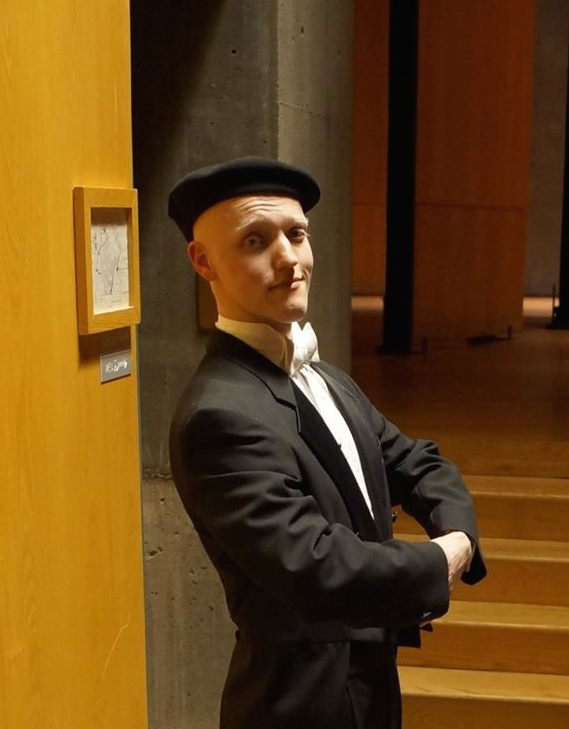
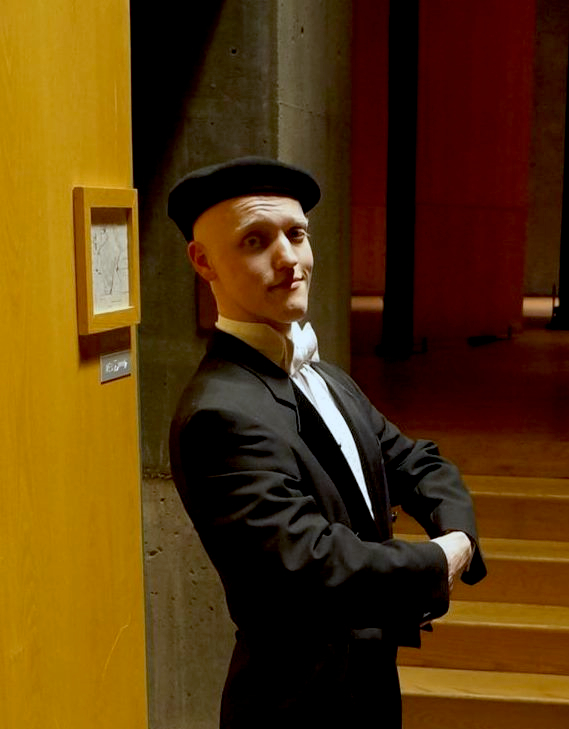
Coming along...

diff --git a/js/init.js b/js/init.js
@@ -13,26 +13,26 @@
 		var settings = {
 
 			// Speed to resize panel.
-				resizeSpeed: 600,
-			
+				resizeSpeed: 400,
+
 			// Speed to fade in/out.
-				fadeSpeed: 300,
-			
+				fadeSpeed: 250,
+
 			// Size factor.
-				sizeFactor: 11.5,		
-			
+				sizeFactor: 11.5,
+
 			// Minimum point size.
-				sizeMin: 15,			
-			
+				sizeMin: 15,
+
 			// Maximum point size.
-				sizeMax: 20			
+				sizeMax: 20
 
 		};
 
 	/*********************************************************************************/
 	/* skel                                                                          */
 	/*********************************************************************************/
-		
+
 		skel.init({
 			reset: 'full',
 			pollOnce: true,
@@ -48,7 +48,7 @@
 	/*********************************************************************************/
 
 		var	$window = $(window);
-		
+
 		$window.on('load', function() {
 
 			var	$body = $('body'),
@@ -65,17 +65,17 @@
 				firstPanelId = null,
 				isLocked = false,
 				hash = window.location.hash.substring(1);
-		
+
 			if (skel.vars.isTouch) {
-				
+
 				settings.fadeSpeed = 0;
 				settings.resizeSpeed = 0;
 				$nav_links.find('span').remove();
-			
+
 			}
 
 			if (skel.isActive('desktop')) {
-				
+
 				// Body.
 					$body._resize = function() {
 						var factor = ($window.width() * $window.height()) / (1440 * 900);
@@ -90,24 +90,24 @@
 						else
 							$wrapper.css('padding-top', ((($window.height() - panels[firstPanelId].height()) / 2) - $nav.height()) + 'px');
 					};
-					
+
 				// Panels.
 					$panels.each(function(i) {
 						var t = $(this), id = t.attr('id');
-						
+
 						panels[id] = t;
-					
+
 						if (i == 0) {
-							
+
 							firstPanelId = id;
 							activePanelId = id;
-						
+
 						}
 						else
 							t.hide();
-							
+
 						t._activate = function(instant) {
-						
+
 							// Check lock state and determine whether we're already at the target.
 								if (isLocked
 								||	activePanelId == id)
@@ -115,11 +115,11 @@
 
 							// Lock.
 								isLocked = true;
-								
+
 							// Change nav link (if it exists).
 								$nav_links.removeClass('active');
 								$nav_links.filter('[href="#' + id + '"]').addClass('active');
-								
+
 							// Change hash.
 								if (i == 0)
 									window.location.hash = '#';
@@ -131,16 +131,16 @@
 										panels[id].outerHeight() +
 										$nav.outerHeight() +
 										$footer.outerHeight();
-							
+
 								if (x > $window.height())
 									$wrapper.addClass('tall');
 								else
 									$wrapper.removeClass('tall');
-										
+
 							// Fade out active panel.
 								$footer.fadeTo(settings.fadeSpeed, 0.0001);
 								panels[activePanelId].fadeOut(instant ? 0 : settings.fadeSpeed, function() {
-				
+
 									// Set new active.
 										activePanelId = id;
 
@@ -151,55 +151,55 @@
 
 										// Reposition.
 											$body._reposition();
-											
+
 										// Resize main to height of new panel.
 											$main.animate({
 												height: panels[activePanelId].outerHeight()
 											}, instant ? 0 : settings.resizeSpeed, 'swing', function() {
-											
+
 												// Fade in new active panel.
 													$footer.fadeTo(instant ? 0 : settings.fadeSpeed, 1.0);
 													panels[activePanelId].fadeIn(instant ? 0 : settings.fadeSpeed, function() {
-														
+
 														// Unlock.
 															isLocked = false;
 
 													});
 											});
-										
+
 								});
-						
+
 						};
-						
+
 					});
 
 				// Nav + Jumplinks.
 					$nav_links.add($jumplinks).click(function(e) {
 						var t = $(this), href = t.attr('href'), id;
-					
+
 						if (href.substring(0,1) == '#') {
-							
+
 							e.preventDefault();
 							e.stopPropagation();
 
 							id = href.substring(1);
-							
+
 							if (id in panels)
 								panels[id]._activate();
-						
+
 						}
-					
+
 					});
-				
+
 				// Window.
 					$window
 						.resize(function() {
-						
+
 							if (!isLocked)
 								$body._resize();
-						
+
 						});
-						
+
 					if (skel.vars.IEVersion < 9)
 						$window
 							.on('resize', function() {
@@ -208,7 +208,7 @@
 
 				// Forms (IE<10).
 					if ($form.length > 0) {
-						
+
 						if (skel.vars.IEVersion < 10) {
 							$.fn.n33_formerize=function(){var _fakes=new Array(),_form = $(this);_form.find('input[type=text],textarea').each(function() { var e = $(this); if (e.val() == '' || e.val() == e.attr('placeholder')) { e.addClass('formerize-placeholder'); e.val(e.attr('placeholder')); } }).blur(function() { var e = $(this); if (e.attr('name').match(/_fakeformerizefield$/)) return; if (e.val() == '') { e.addClass('formerize-placeholder'); e.val(e.attr('placeholder')); } }).focus(function() { var e = $(this); if (e.attr('name').match(/_fakeformerizefield$/)) return; if (e.val() == e.attr('placeholder')) { e.removeClass('formerize-placeholder'); e.val(''); } }); _form.find('input[type=password]').each(function() { var e = $(this); var x = $($('<div>').append(e.clone()).remove().html().replace(/type="password"/i, 'type="text"').replace(/type=password/i, 'type=text')); if (e.attr('id') != '') x.attr('id', e.attr('id') + '_fakeformerizefield'); if (e.attr('name') != '') x.attr('name', e.attr('name') + '_fakeformerizefield'); x.addClass('formerize-placeholder').val(x.attr('placeholder')).insertAfter(e); if (e.val() == '') e.hide(); else x.hide(); e.blur(function(event) { event.preventDefault(); var e = $(this); var x = e.parent().find('input[name=' + e.attr('name') + '_fakeformerizefield]'); if (e.val() == '') { e.hide(); x.show(); } }); x.focus(function(event) { event.preventDefault(); var x = $(this); var e = x.parent().find('input[name=' + x.attr('name').replace('_fakeformerizefield', '') + ']'); x.hide(); e.show().focus(); }); x.keypress(function(event) { event.preventDefault(); x.val(''); }); });  _form.submit(function() { $(this).find('input[type=text],input[type=password],textarea').each(function(event) { var e = $(this); if (e.attr('name').match(/_fakeformerizefield$/)) e.attr('name', ''); if (e.val() == e.attr('placeholder')) { e.removeClass('formerize-placeholder'); e.val(''); } }); }).bind("reset", function(event) { event.preventDefault(); $(this).find('select').val($('option:first').val()); $(this).find('input,textarea').each(function() { var e = $(this); var x; e.removeClass('formerize-placeholder'); switch (this.type) { case 'submit': case 'reset': break; case 'password': e.val(e.attr('defaultValue')); x = e.parent().find('input[name=' + e.attr('name') + '_fakeformerizefield]'); if (e.val() == '') { e.hide(); x.show(); } else { e.show(); x.hide(); } break; case 'checkbox': case 'radio': e.attr('checked', e.attr('defaultValue')); break; case 'text': case 'textarea': e.val(e.attr('defaultValue')); if (e.val() == '') { e.addClass('formerize-placeholder'); e.val(e.attr('placeholder')); } break; default: e.val(e.attr('defaultValue')); break; } }); window.setTimeout(function() { for (x in _fakes) _fakes[x].trigger('formerize_sync'); }, 10); }); return _form; };
 							$form.n33_formerize();
@@ -228,9 +228,9 @@
 						panels[hash]._activate(true);
 
 					$wrapper.fadeTo(400, 1.0);
-				
+
 			}
-					
+
 		});
 
 })(jQuery);

diff --git a/index.html b/index.html
@@ -31,7 +31,8 @@
 					<nav id="nav">
 						<a href="#me" class="icon fa-home active"><span>Home</span></a>
 						<a href="#work" class="icon fa-folder"><span>Work</span></a>
-						<a href="#contact" class="icon fa-envelope"><span>Contact</span></a>
+						<a href="#about" class="icon fa-user"><span>About</span></a>
+						<a href="#contact" class="icon fa-send-o"><span>Contact</span></a>
 					</nav>
 
 				<!-- Main -->
@@ -41,11 +42,12 @@
 							<article id="me" class="panel">
 								<header>
 									<h1>Nicholas Oliver Brewer</h1>
-									<p>Musician and Visual Artist</p>
+									<h4>Musician and Visual Artist</h4>
+									<p>Peracta cerealium in medendo quoque natura est omniumque, quae ciborum aut florum odorumve gratia proveniunt supina tellure. non cessit iis Pomona partesque medicas et pendentibus dedit, non contenta protegere arborumque umbra alere quae diximus, immo velut indignata plus auxili inesse his, quae longius a caelo abessent quaeque postea coepissent; primum enim...</p>
 								</header>
 								<a href="#work" class="jumplink pic">
 									<span class="arrow icon fa-chevron-right"><span>See my work</span></span>
-									<img src="images/me cropped.jpg" alt="" />
+									<img src="images/profile bw.jpg" alt="" />
 								</a>
 							</article>
 
@@ -107,13 +109,23 @@
 							-->
 							</article>
 
+						<!-- About -->
+							<article id="about" class="panel">
+								<header>
+									<h2>About Me</h2>
+								</header>
+								<p>
+									Coming Soon...
+								</p>
+							</article>
+
 						<!-- Contact -->
 							<article id="contact" class="panel">
 								<header>
 									<h2>Contact Me</h2>
 								</header>
 								<body>
-									<p>If you'd like to contact me, please feel free to send an email to:</p>
+									<p>If you would like to contact me, please feel free to send an email to:</p>
 									<h4>bricknewer@gmail.com</h4>
 								</body>
 							</article>

diff --git a/css/style-desktop.css b/css/style-desktop.css
@@ -31,7 +31,7 @@
 
 	h1
 	{
-		font-size: 2.4em;
+		font-size: 2em;
 		letter-spacing: -0.015em;
 	}
 
@@ -222,7 +222,7 @@
 	{
 		width: 45em;
 		background: #ffffff;
-		box-shadow: 0px 1px 0px 0px rgba(0,0,0,0.25);
+		box-shadow: 0px 1px 0px 0px rgba(0,0,0,0.15);
 	}
 
 	.panel
@@ -315,16 +315,28 @@
 				{
 					position: absolute;
 					left: 0;
-					bottom: 52.5%;
+					top: 10%;
 					margin: 0;
+				}
+
+				#me header > h4
+				{
+					position: absolute;
+					left: 0;
+					top: 21%;
+					width: 54%;
+					font-size: 1.3em;
+					letter-spacing: -0.015em;
+					margin-top: 0;
 				}
 
 				#me header > p
 				{
 					position: absolute;
 					left: 0;
-					top: 52.5%;
-					font-size: 1.5em;
+					top: 30%;
+					width: 54%;
+					font-size: 1.0em;
 					letter-spacing: -0.015em;
 					margin-top: 0;
 				}

diff --git a/css/style.css b/css/style.css
@@ -46,10 +46,16 @@
 		color: #363636;
 	}
 
-	h1, h2, h3, h4,h5, h6
+	h1, h2, h3, h5, h6
 	{
-		font-weight: 400;
+		font-weight: 20;
 		color: #363636;
+	}
+
+	h4
+	{
+		font-weight: 20;
+		color: #777777;
 	}
 
 	blockquote
